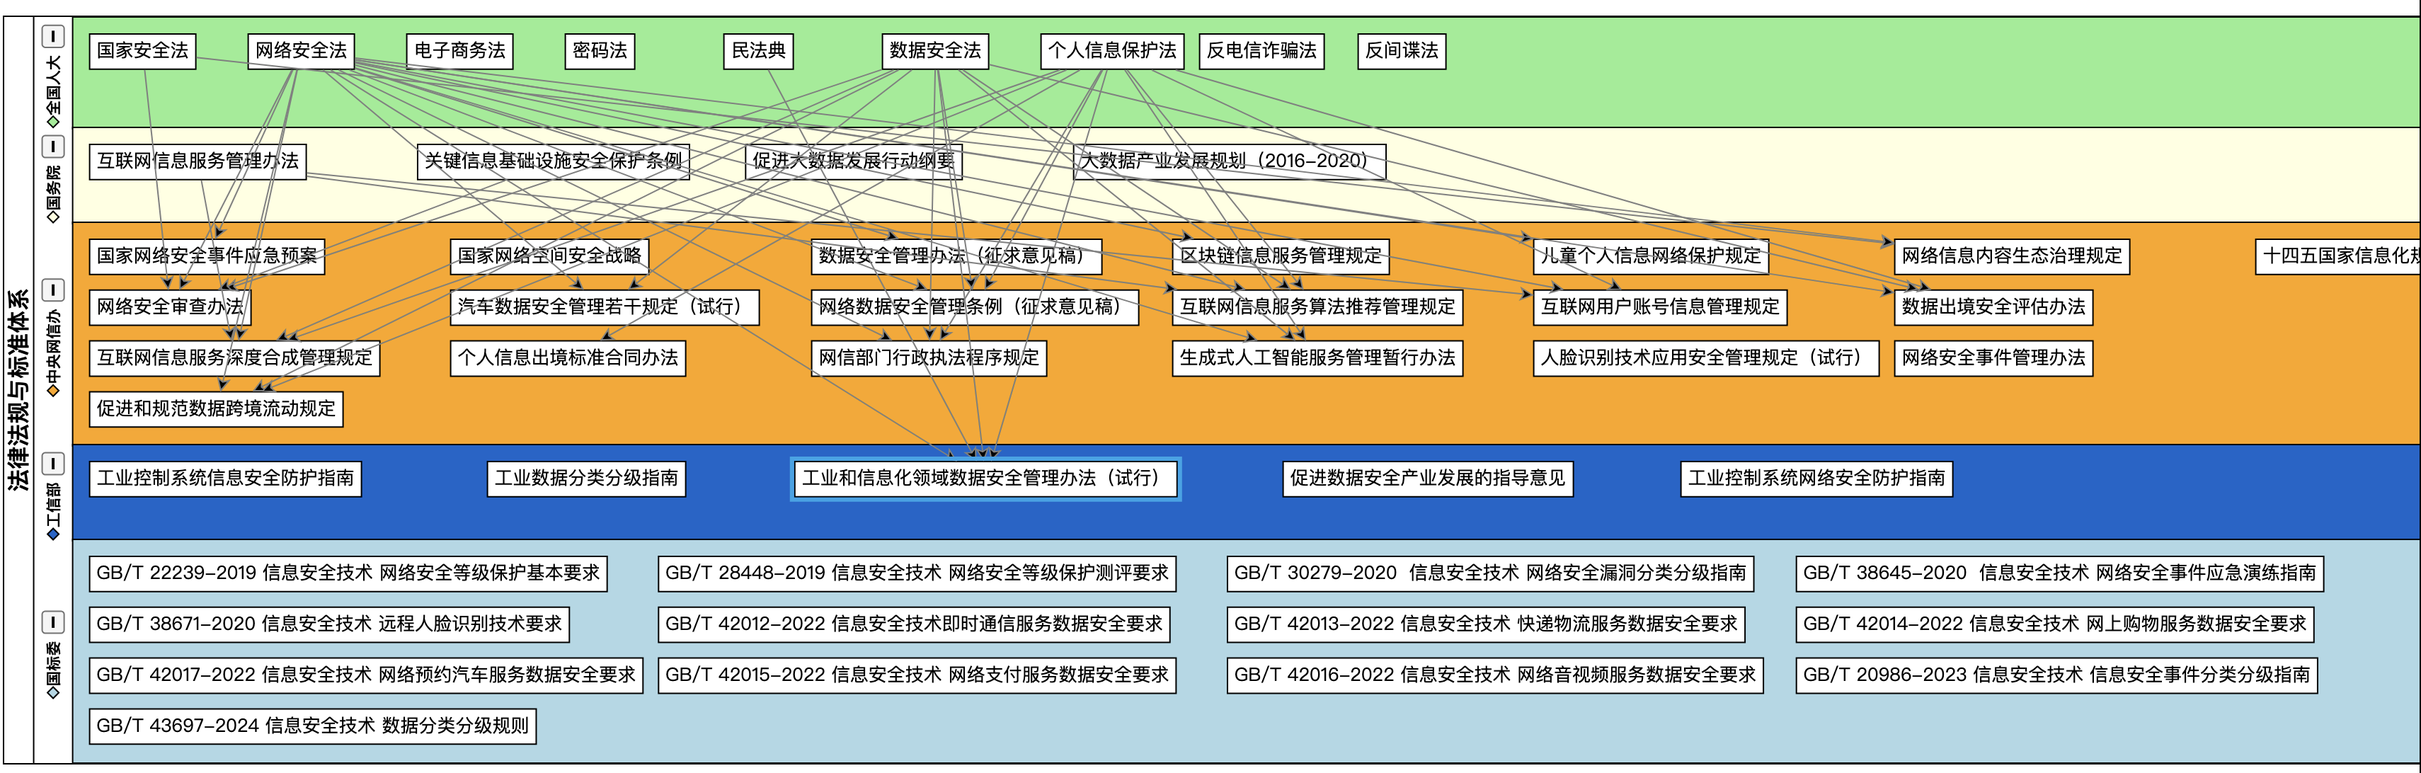
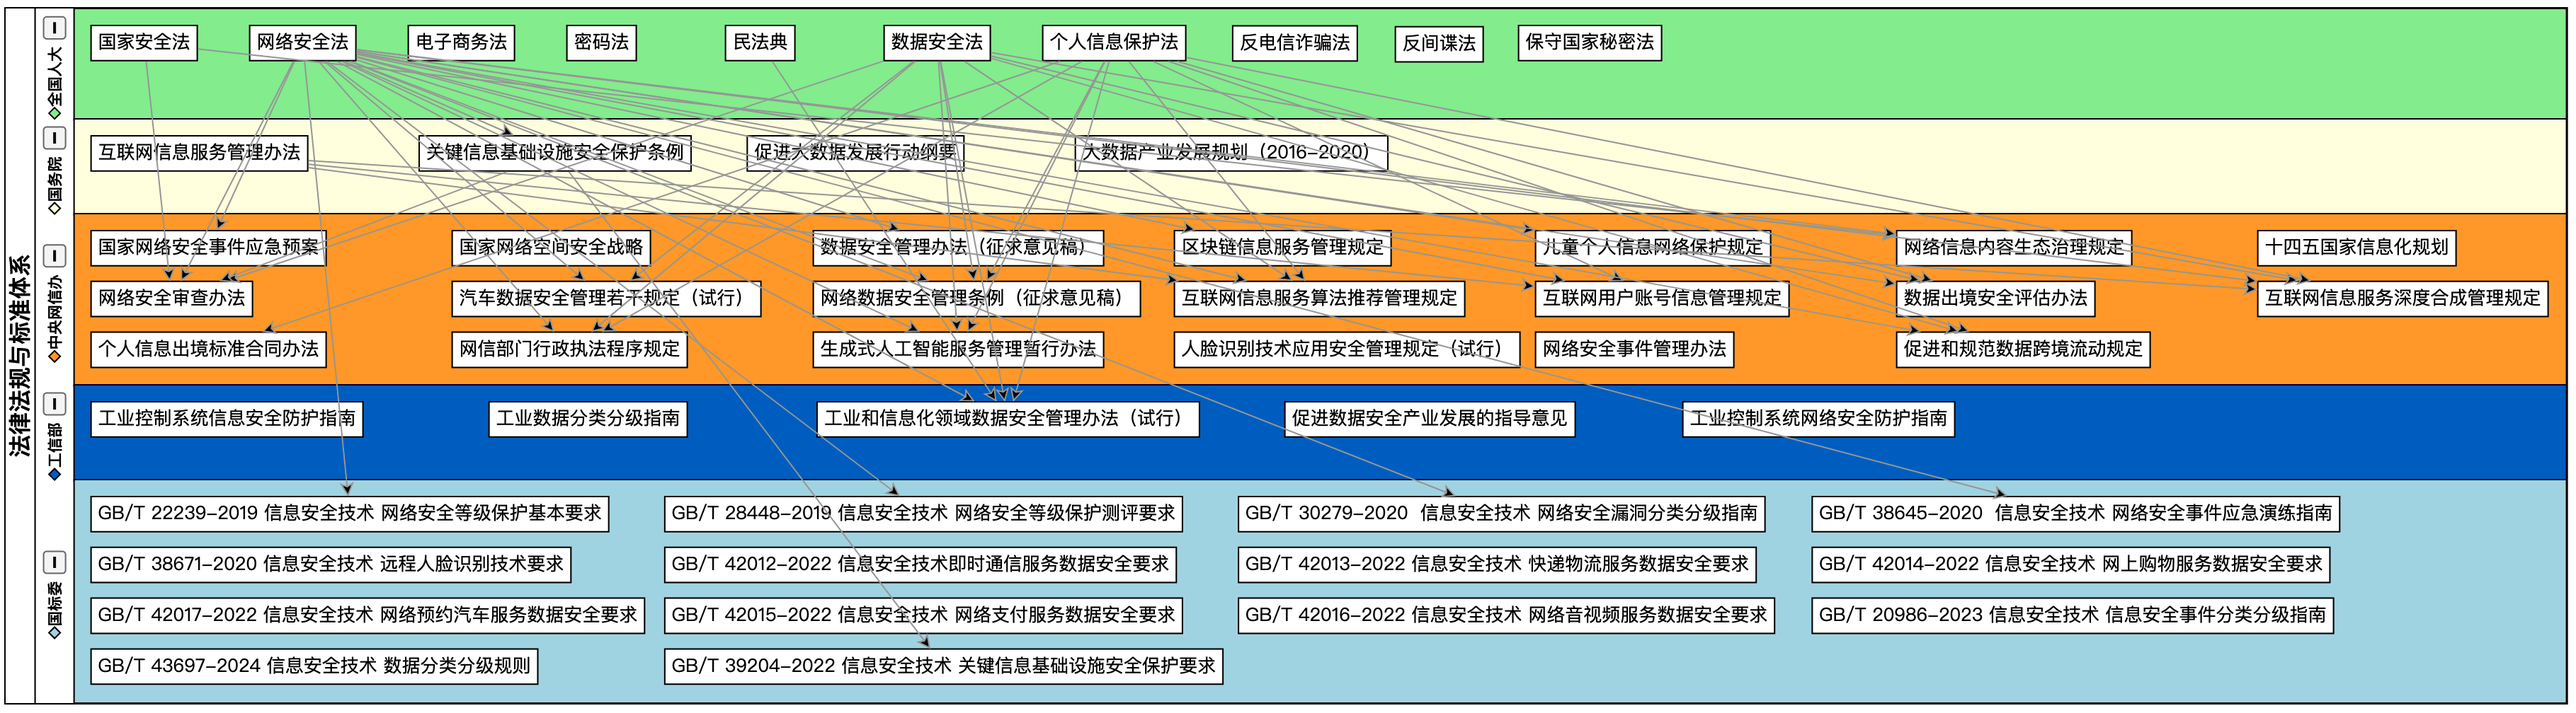
add 关键信息基础设施保护条例

diff --git a/README.md b/README.md
@@ -10,8 +10,6 @@
 
 <img src="images/regulaitons_updating.png">
 
-
-
 ## 分类
 
 - [安全合规检查表](#安全合规检查表)
@@ -20,6 +18,7 @@
     - [网络安全法](#网络安全法)
     - [数据安全法](#数据安全法)
     - [个人信息保护](#个人信息保护)
+    - [关键信息基础设施保护](#关键信息基础设施保护)
     - [汽车数据处理](#汽车数据处理)
     - [数据出境安全评估](#数据出境安全评估)
 
@@ -110,6 +109,24 @@
 - [ ] 对于生物识别、宗教信仰、特定身份、医疗健康、金融账户、行踪轨迹等敏感个人信息，以及不满十四周岁未成年的个人信息，应使用专门隐私保护策略和安全防护技术。处理这类信息应取得个人单独同意，最好是单独的书面同意。
 - [ ] 向中国境外提供个人信息的，需要经过国家网信部门的安全评估、专业机构认证、签订标准合同、遵循专项法律法规。
 - [ ] 关键信息基础设施运营者、处理个人信息数量达到规定数量（目前常见要求是10万条）的个人信息处理者，应将数据存储在境内。
+
+### 关键信息基础设施保护
+
+以下内容参考了2021年4月27日通过的《关键信息基础设施安全保护条例》。
+
+- [ ] 被主管、监管部门认定属于关基运营者的组织，新网络系统按“三同步”原则规划建设使用，老网络系统要进行安全强化和改造。一般情况与等保同步展开。
+- [ ] 应参考《GB/T39204-2022 关键信息基础设施安全保护要求》和当地公安有关文件，制定专门的网络安全管理制度。
+- [ ] 被认定为关基运营者的主要负责人（如CEO、总经理）是关基安全保护负责人，负责安全保护建设、安全事件处置等等。应另一名首席安全官做专项管理。
+- [ ] 设置了专门的关基安全管理机构。该机构负责安全管理、防护能力、应急预案、个人信息与数据保护等体系建设；负责培训、演练、考核、安全运营和事件报告。
+- [ ] 有专门经费、人员保障关基保护。
+- [ ] 对关基设施每年至少进行一次网络安全监测和风险评估，对问题进行整改，同步更新关基保护体系，并按要求报告有关主管部门。
+- [ ] 发生重大事件（如主要的业务中断、功能故障、重要数据泄露、万级以上个人信息泄露、大的经济损失、大范围违法信息传播）或发现重大威胁时，按要求尽快报告有关主管部门。
+- [ ] 采购网络产品和服务应按2022年2月15日起施行的《网络安全审查办法》经过审查，通过查后再采购。
+- [ ] 采购经过审查的网络产品和服务时，应签订安全保密协议（参照主管单位模版）。
+- [ ] 关基运营者发生合并、分立、解散等变化，要及时向保护部门（行业主管、当地公安）报告并做好关基设施安全保护。
+- [ ] 如果未有效执行“关保条例”和《GB/T39204-2022 关键信息基础设施安全保护要求》，可能面临10～100万单位罚款，1～10万主管人员罚款，以及其他处罚。
+
+TODO：补充《GB/T39204-2022 关键信息基础设施安全保护要求》干货内容
 
 ### 汽车数据处理
 
